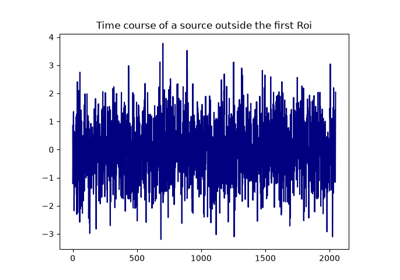
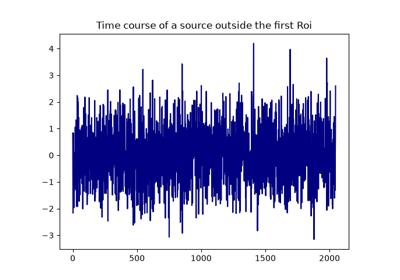
Deploy preview for PR 29 🛫

diff --git a/pr-preview/pr-29/sg_execution_times.html b/pr-preview/pr-29/sg_execution_times.html
@@ -45,7 +45,7 @@
   <link rel="preload" as="script" href="_static/scripts/bootstrap.js?digest=a95f357e85573c9b56d5" />
 <link rel="preload" as="script" href="_static/scripts/pydata-sphinx-theme.js?digest=a95f357e85573c9b56d5" />
 
-    <script src="_static/documentation_options.js?v=156dfb35"></script>
+    <script src="_static/documentation_options.js?v=9e4d0ff6"></script>
     <script src="_static/doctools.js?v=fd6eb6e6"></script>
     <script src="_static/sphinx_highlight.js?v=6ffebe34"></script>
     <script src="_static/clipboard.min.js?v=a7894cd8"></script>
@@ -413,7 +413,7 @@
                   
   <section id="computation-times">
 <span id="sphx-glr-sg-execution-times"></span><h1>Computation times<a class="headerlink" href="#computation-times" title="Link to this heading">🔗</a></h1>
-<p><strong>00:06.622</strong> total execution time for 1 file <strong>from all galleries</strong>:</p>
+<p><strong>00:06.388</strong> total execution time for 1 file <strong>from all galleries</strong>:</p>
 <div class="docutils container">
 <style scoped>
 <link href="https://cdnjs.cloudflare.com/ajax/libs/twitter-bootstrap/5.3.0/css/bootstrap.min.css" rel="stylesheet" />
@@ -435,8 +435,8 @@ $(document).ready( function () {
 </thead>
 <tbody>
 <tr class="row-even"><td><p><a class="reference internal" href="generated/tutorials/00_plot_svd.html#sphx-glr-generated-tutorials-00-plot-svd-py"><span class="std std-ref">Conpute SVD</span></a> (<code class="docutils literal notranslate"><span class="pre">../tutorials/00_plot_svd.py</span></code>)</p></td>
-<td><p>00:06.622</p></td>
-<td><p>708.6</p></td>
+<td><p>00:06.388</p></td>
+<td><p>709.9</p></td>
 </tr>
 </tbody>
 </table>

diff --git a/pr-preview/pr-29/api/index.html b/pr-preview/pr-29/api/index.html
@@ -45,7 +45,7 @@
   <link rel="preload" as="script" href="../_static/scripts/bootstrap.js?digest=a95f357e85573c9b56d5" />
 <link rel="preload" as="script" href="../_static/scripts/pydata-sphinx-theme.js?digest=a95f357e85573c9b56d5" />
 
-    <script src="../_static/documentation_options.js?v=156dfb35"></script>
+    <script src="../_static/documentation_options.js?v=9e4d0ff6"></script>
     <script src="../_static/doctools.js?v=fd6eb6e6"></script>
     <script src="../_static/sphinx_highlight.js?v=6ffebe34"></script>
     <script src="../_static/clipboard.min.js?v=a7894cd8"></script>

diff --git a/pr-preview/pr-29/api/io.html b/pr-preview/pr-29/api/io.html
@@ -45,7 +45,7 @@
   <link rel="preload" as="script" href="../_static/scripts/bootstrap.js?digest=a95f357e85573c9b56d5" />
 <link rel="preload" as="script" href="../_static/scripts/pydata-sphinx-theme.js?digest=a95f357e85573c9b56d5" />
 
-    <script src="../_static/documentation_options.js?v=156dfb35"></script>
+    <script src="../_static/documentation_options.js?v=9e4d0ff6"></script>
     <script src="../_static/doctools.js?v=fd6eb6e6"></script>
     <script src="../_static/sphinx_highlight.js?v=6ffebe34"></script>
     <script src="../_static/clipboard.min.js?v=a7894cd8"></script>

diff --git a/pr-preview/pr-29/api/regions_of_interests.html b/pr-preview/pr-29/api/regions_of_interests.html
@@ -45,7 +45,7 @@
   <link rel="preload" as="script" href="../_static/scripts/bootstrap.js?digest=a95f357e85573c9b56d5" />
 <link rel="preload" as="script" href="../_static/scripts/pydata-sphinx-theme.js?digest=a95f357e85573c9b56d5" />
 
-    <script src="../_static/documentation_options.js?v=156dfb35"></script>
+    <script src="../_static/documentation_options.js?v=9e4d0ff6"></script>
     <script src="../_static/doctools.js?v=fd6eb6e6"></script>
     <script src="../_static/sphinx_highlight.js?v=6ffebe34"></script>
     <script src="../_static/clipboard.min.js?v=a7894cd8"></script>

diff --git a/pr-preview/pr-29/api/source_estimate.html b/pr-preview/pr-29/api/source_estimate.html
@@ -45,7 +45,7 @@
   <link rel="preload" as="script" href="../_static/scripts/bootstrap.js?digest=a95f357e85573c9b56d5" />
 <link rel="preload" as="script" href="../_static/scripts/pydata-sphinx-theme.js?digest=a95f357e85573c9b56d5" />
 
-    <script src="../_static/documentation_options.js?v=156dfb35"></script>
+    <script src="../_static/documentation_options.js?v=9e4d0ff6"></script>
     <script src="../_static/doctools.js?v=fd6eb6e6"></script>
     <script src="../_static/sphinx_highlight.js?v=6ffebe34"></script>
     <script src="../_static/clipboard.min.js?v=a7894cd8"></script>

diff --git a/pr-preview/pr-29/api/source_space.html b/pr-preview/pr-29/api/source_space.html
@@ -45,7 +45,7 @@
   <link rel="preload" as="script" href="../_static/scripts/bootstrap.js?digest=a95f357e85573c9b56d5" />
 <link rel="preload" as="script" href="../_static/scripts/pydata-sphinx-theme.js?digest=a95f357e85573c9b56d5" />
 
-    <script src="../_static/documentation_options.js?v=156dfb35"></script>
+    <script src="../_static/documentation_options.js?v=9e4d0ff6"></script>
     <script src="../_static/doctools.js?v=fd6eb6e6"></script>
     <script src="../_static/sphinx_highlight.js?v=6ffebe34"></script>
     <script src="../_static/clipboard.min.js?v=a7894cd8"></script>

diff --git a/pr-preview/pr-29/genindex.html b/pr-preview/pr-29/genindex.html
@@ -44,7 +44,7 @@
   <link rel="preload" as="script" href="_static/scripts/bootstrap.js?digest=a95f357e85573c9b56d5" />
 <link rel="preload" as="script" href="_static/scripts/pydata-sphinx-theme.js?digest=a95f357e85573c9b56d5" />
 
-    <script src="_static/documentation_options.js?v=156dfb35"></script>
+    <script src="_static/documentation_options.js?v=9e4d0ff6"></script>
     <script src="_static/doctools.js?v=fd6eb6e6"></script>
     <script src="_static/sphinx_highlight.js?v=6ffebe34"></script>
     <script src="_static/clipboard.min.js?v=a7894cd8"></script>

diff --git a/pr-preview/pr-29/index.html b/pr-preview/pr-29/index.html
@@ -45,7 +45,7 @@
   <link rel="preload" as="script" href="_static/scripts/bootstrap.js?digest=a95f357e85573c9b56d5" />
 <link rel="preload" as="script" href="_static/scripts/pydata-sphinx-theme.js?digest=a95f357e85573c9b56d5" />
 
-    <script src="_static/documentation_options.js?v=156dfb35"></script>
+    <script src="_static/documentation_options.js?v=9e4d0ff6"></script>
     <script src="_static/doctools.js?v=fd6eb6e6"></script>
     <script src="_static/sphinx_highlight.js?v=6ffebe34"></script>
     <script src="_static/clipboard.min.js?v=a7894cd8"></script>

diff --git a/pr-preview/pr-29/install.html b/pr-preview/pr-29/install.html
@@ -45,7 +45,7 @@
   <link rel="preload" as="script" href="_static/scripts/bootstrap.js?digest=a95f357e85573c9b56d5" />
 <link rel="preload" as="script" href="_static/scripts/pydata-sphinx-theme.js?digest=a95f357e85573c9b56d5" />
 
-    <script src="_static/documentation_options.js?v=156dfb35"></script>
+    <script src="_static/documentation_options.js?v=9e4d0ff6"></script>
     <script src="_static/doctools.js?v=fd6eb6e6"></script>
     <script src="_static/sphinx_highlight.js?v=6ffebe34"></script>
     <script src="_static/clipboard.min.js?v=a7894cd8"></script>

diff --git a/pr-preview/pr-29/py-modindex.html b/pr-preview/pr-29/py-modindex.html
@@ -44,7 +44,7 @@
   <link rel="preload" as="script" href="_static/scripts/bootstrap.js?digest=a95f357e85573c9b56d5" />
 <link rel="preload" as="script" href="_static/scripts/pydata-sphinx-theme.js?digest=a95f357e85573c9b56d5" />
 
-    <script src="_static/documentation_options.js?v=156dfb35"></script>
+    <script src="_static/documentation_options.js?v=9e4d0ff6"></script>
     <script src="_static/doctools.js?v=fd6eb6e6"></script>
     <script src="_static/sphinx_highlight.js?v=6ffebe34"></script>
     <script src="_static/clipboard.min.js?v=a7894cd8"></script>

diff --git a/pr-preview/pr-29/search.html b/pr-preview/pr-29/search.html
@@ -43,7 +43,7 @@
   <link rel="preload" as="script" href="_static/scripts/bootstrap.js?digest=a95f357e85573c9b56d5" />
 <link rel="preload" as="script" href="_static/scripts/pydata-sphinx-theme.js?digest=a95f357e85573c9b56d5" />
 
-    <script src="_static/documentation_options.js?v=156dfb35"></script>
+    <script src="_static/documentation_options.js?v=9e4d0ff6"></script>
     <script src="_static/doctools.js?v=fd6eb6e6"></script>
     <script src="_static/sphinx_highlight.js?v=6ffebe34"></script>
     <script src="_static/clipboard.min.js?v=a7894cd8"></script>

diff --git a/pr-preview/pr-29/_static/documentation_options.js b/pr-preview/pr-29/_static/documentation_options.js
@@ -1,5 +1,5 @@
 const DOCUMENTATION_OPTIONS = {
-    VERSION: '0.1.0.dev153+g3bad20507',
+    VERSION: '0.1.0.dev154+g6c6736eba',
     LANGUAGE: 'en',
     COLLAPSE_INDEX: false,
     BUILDER: 'html',
